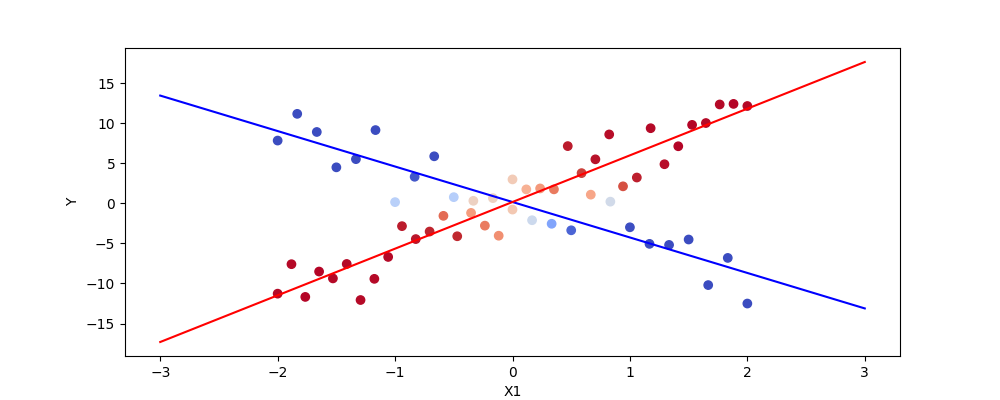
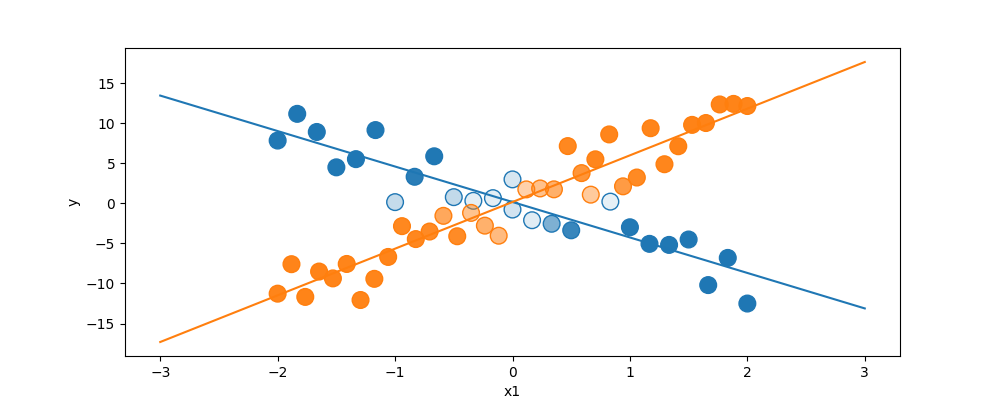
update color and alpha on classification

diff --git a/regmix.py b/regmix.py
@@ -6,6 +6,8 @@ import numpy as np
 import matplotlib.pyplot as plt
 import pymc3 as pm
 
+# from PIL import ImageColor
+import matplotlib.colors as mcolors
 import theano.tensor as tt
 
 
@@ -179,29 +181,40 @@ elif n_components == 2:
 
 x_model = np.linspace(-3, 3)
 for icat in categories:
+
+    # Calculate model mean
     y_model = b0_mean + b1_mean[icat] * x_model
-    # print(p_cat)
+
+    # Plot model mean
     (l,) = ax.plot(x_model, y_model, "-")
+
+    # Get the color
     color = l.get_color()
+    color_rgba = mcolors.to_rgba(color)
+
+    # Expand to the number of data points in the class
+    color_rgba = np.array([list(color_rgba) for p in p_cat[cat == icat]])
+
+    # Set face alpha to the class probability
+    color_rgba[:, 3] = p_cat[cat == icat]
+
+    # Plot data points
     ax.scatter(
         X1[cat == icat],
         Y[cat == icat],
         s=144,
         marker="o",
         edgecolor=color,
-        facecolor=(0, 1, 0, 0.5),
+        facecolor=color_rgba,
     )
 
-ax.set_ylabel("Y")
-ax.set_xlabel("X1")
+ax.set_ylabel("y")
+ax.set_xlabel("x1")
 fig.savefig("regmix-classes.png")
 
 
-# The probability seems not to be localized around 0 and 1
-# It's not bimodal around 0.5 if the R^2 is small it seems
-# In the comments for the original script it says
-# "Proportion in each mixture"
-counts, bins = np.histogram(p_cat, bins=50)
+# Proportion in each mixture components
+counts, bins = np.histogram(avg_cat, bins=50)
 fig, ax = plt.subplots(1, 1)
 ax.hist(bins[:-1], bins, weights=counts, align="left")
 ax.set_ylabel("count")
